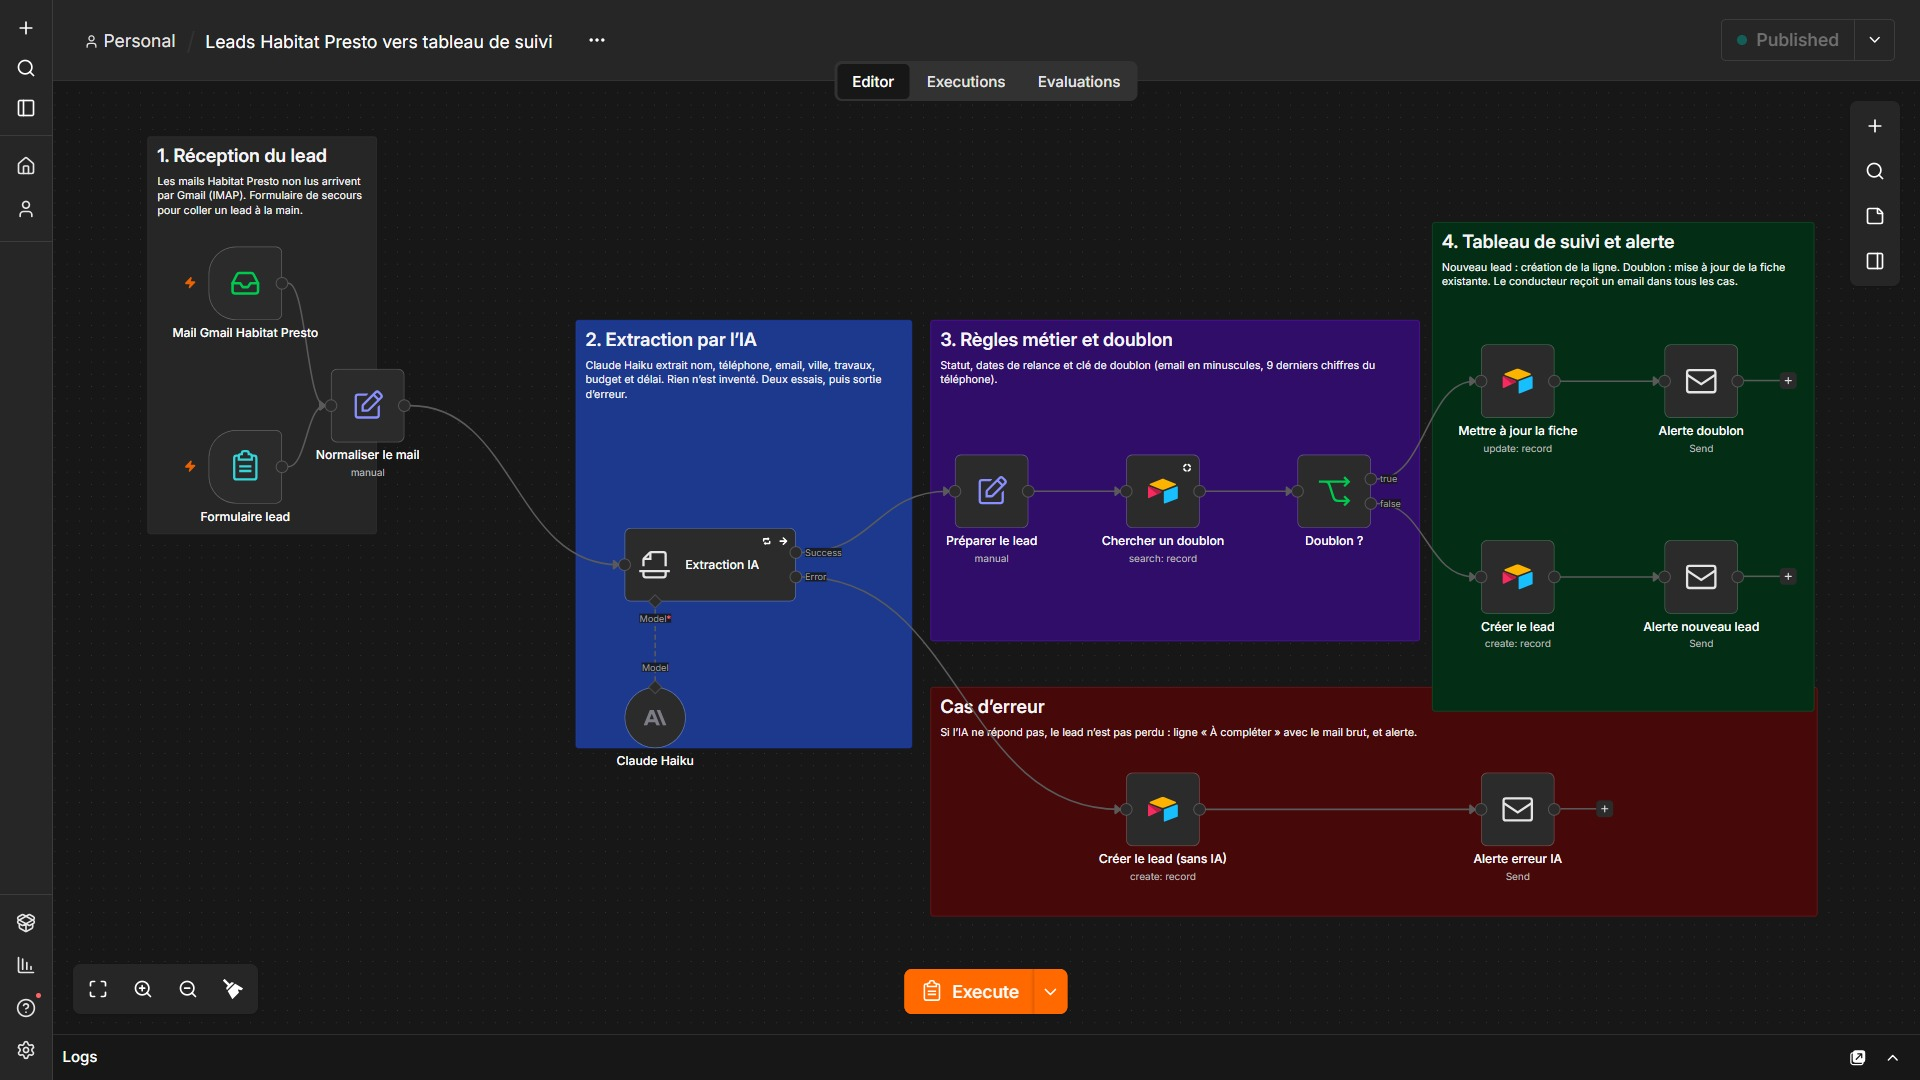
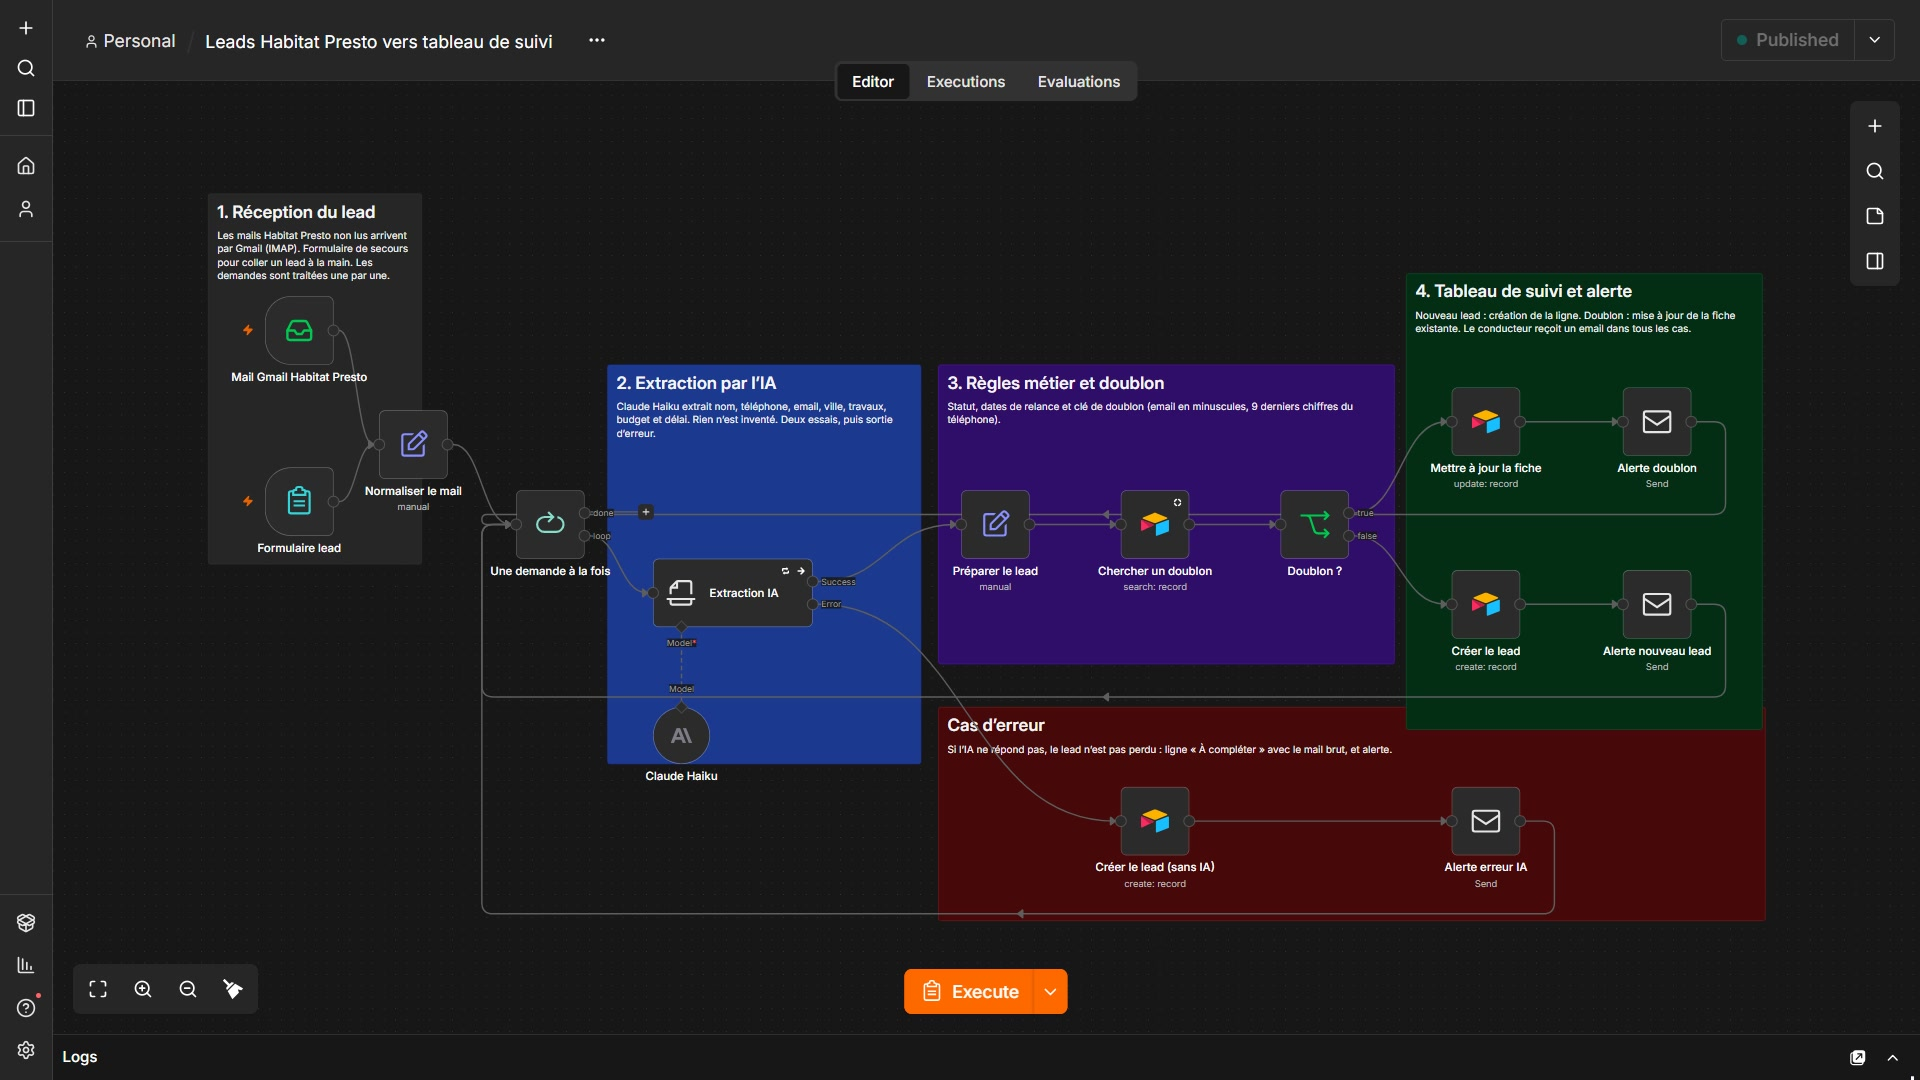
Workflow : traitement des demandes une par une, capture et README mis à jour

Changed region(s): [[0.25, 0.2139, 0.9688, 0.8556], [0.0625, 0.1222, 0.25, 0.5194], [0.8438, 0.4889, 0.9375, 0.6111]]

diff --git a/README.md b/README.md
@@ -83,6 +83,7 @@ Plus de vingt essais au total. Chaque demande est traitée en une trentaine de s
 | Ni téléphone ni email | Fiche créée, état « À compléter », email qui le signale |
 | Budget non précisé | Fiche créée sans budget, rien d'inventé |
 | Message écrit de façon différente (politesse, autre ordre, signature) | Toutes les informations sont quand même retrouvées |
+| Quatre demandes qui arrivent presque en même temps | Traitées une par une, dans l'ordre, sans qu'aucune ne soit perdue ni mélangée |
 | Le même client qui réécrit (numéro et email écrits autrement) | Pas de nouvelle fiche : l'ancienne est mise à jour, le conducteur est prévenu |
 | Même client reconnu seulement par son téléphone, ou seulement par son email | Reconnu aussi |
 | Email sans rapport avec Habitat Presto | Ignoré |
@@ -90,6 +91,8 @@ Plus de vingt essais au total. Chaque demande est traitée en une trentaine de s
 | Une demande collée à la main dans le formulaire de secours | Traitée comme un email normal |
 
 ![Les traitements réussis dans l'outil](captures/02_executions_reussies_n8n.jpg)
+
+**Un deuxième défaut trouvé en testant :** quatre demandes envoyées d'un coup étaient traitées en même temps et pouvaient se mélanger (une fiche mise à jour avec les informations d'un autre client). L'outil traite maintenant les demandes une par une.
 
 **Un défaut trouvé en testant :** après une longue période sans demande, la connexion à la boîte email pouvait se couper et une demande passait à côté. J'ai ajouté une reconnexion automatique toutes les 5 minutes, puis vérifié qu'une demande arrivait bien ensuite.
 
@@ -141,7 +144,7 @@ Prochaines étapes possibles, de la plus utile à la moins urgente : brancher l'
 
 | Besoin | Outil |
 |---|---|
-| Enchaîner les étapes | n8n (14 étapes, uniquement des éléments prêts à l'emploi, aucun code à écrire) |
+| Enchaîner les étapes | n8n (15 étapes, uniquement des éléments prêts à l'emploi, aucun code à écrire) |
 | Lire un email et en extraire les informations | Claude Haiku, un modèle d'IA économique, réglé pour ne rien inventer |
 | Tableau de suivi | Airtable |
 | Recevoir les demandes et envoyer les alertes | Gmail |
